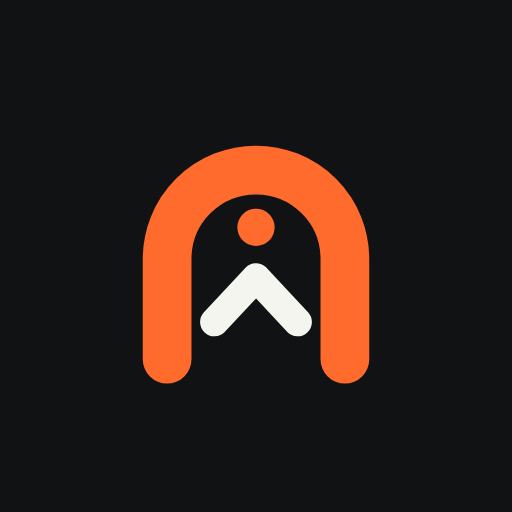
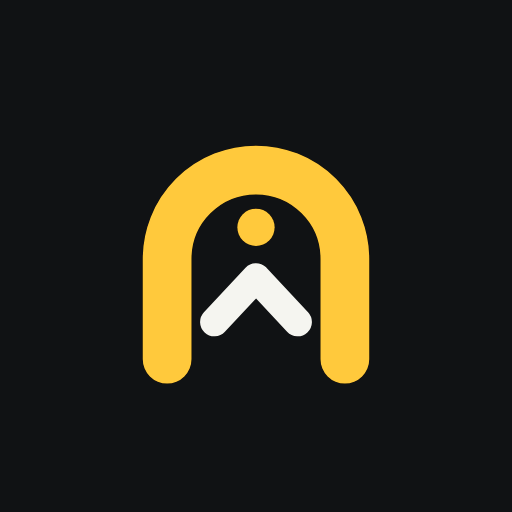
web: طلباتي السابقة بطاقات واضحة، أيقونات التطبيق (PNG) صفراء
Claude-Session: https://claude.ai/code/session_01CPeNF4YeC7sut9oWUzz2V4

Changed region(s): [[0.2812, 0.2812, 0.7188, 0.75]]

diff --git a/profile.js b/profile.js
@@ -63,9 +63,21 @@
     F.$('#p-delete', el).onclick = deleteMine;
     const ST = { open: 'قيد البحث', accepted: 'مؤكد', completed: 'مكتمل', cancelled: 'ملغي', expired: 'منتهي' };
     const ISS = { tow: 'سحب', battery: 'بطارية', tire: 'إطار', fuel: 'وقود', locked: 'مفاتيح مقفلة', accident: 'حادث', other: 'أخرى' };
-    F.sb.q('requests', 'select=number,issue,status,created_at&order=created_at.desc&limit=10').then((rows) => {
+    const ICO = { tow: '🚚', battery: '🔋', tire: '🛞', fuel: '⛽', locked: '🔑', accident: '⚠', other: '❓' };
+    const COL = { open: '#5AA9FF', accepted: '#FFC93C', completed: '#10B981', cancelled: '#8C949B', expired: '#8C949B' };
+    const MON = ['كانون الثاني', 'شباط', 'آذار', 'نيسان', 'أيار', 'حزيران', 'تموز', 'آب', 'أيلول', 'تشرين الأول', 'تشرين الثاني', 'كانون الأول'];
+    const when = (iso) => { const d = new Date(iso), h = d.getHours(); return d.getDate() + ' ' + MON[d.getMonth()] + ' · ' + ((h % 12) || 12) + ':' + String(d.getMinutes()).padStart(2, '0') + (h >= 12 ? ' م' : ' ص'); };
+    F.sb.q('requests', 'select=number,issue,status,created_at,destination,cranes(name)&order=created_at.desc&limit=15').then((rows) => {
       const box = F.$('#p-reqs', el); if (!box) return;
-      box.innerHTML = rows.length ? '<ul class="list">' + rows.map((x) => '<li><span><b>#' + (x.number || '') + '</b> ' + (ISS[x.issue] || '') + '</span><span class="muted small">' + (ST[x.status] || x.status) + ' · ' + F.ago(Date.parse(x.created_at)) + '</span></li>').join('') + '</ul>' : 'ما عندك طلبات بعد.';
+      box.innerHTML = rows.length ? rows.map((x) => {
+        const c = COL[x.status] || '#8C949B';
+        return '<div class="req-card"><div class="req-top"><span class="req-ico" style="background:' + c + '22">' + (ICO[x.issue] || '❓') + '</span>' +
+          '<div class="req-main"><b>' + (ISS[x.issue] || 'طلب مساعدة') + '</b><div class="muted small">' + when(x.created_at) + '</div></div>' +
+          '<span class="req-st" style="color:' + c + ';background:' + c + '22">' + (ST[x.status] || x.status) + '</span></div>' +
+          (x.cranes && x.cranes.name ? '<div class="muted small req-line">👤 السائق: ' + F.esc(x.cranes.name) + '</div>' : '') +
+          (x.destination ? '<div class="muted small req-line">📍 الوجهة: ' + F.esc(x.destination) + '</div>' : '') +
+          (x.number ? '<div class="muted req-no">رقم الطلب ' + x.number + '</div>' : '') + '</div>';
+      }).join('') : 'ما عندك طلبات بعد.';
     }).catch(() => { const b = F.$('#p-reqs', el); if (b) b.textContent = 'تعذّر التحميل.'; });
     const drawBlk = () => {
       const l = F.blocks ? F.blocks.list() : [], card = F.$('#p-blocked', el); if (!card) return;

diff --git a/style.css b/style.css
@@ -1016,3 +1016,14 @@ html.is-en .gd-steps li { padding: 11px 0 11px 44px; }
 .cp-id .k { color: var(--muted); font-size: 12px; }
 .cp-id .nm b { color: var(--text); }
 .cp-id .pl b { color: var(--accent); letter-spacing: .5px; }
+
+/* طلباتي السابقة */
+.req-card { padding: 12px 14px; border-radius: 22px; background: var(--surface2, #252A2F); border: 1px solid var(--line); margin-top: 10px; }
+.req-top { display: flex; align-items: center; gap: 12px; }
+.req-ico { width: 44px; height: 44px; border-radius: 50%; display: flex; align-items: center; justify-content: center; font-size: 21px; flex: none; }
+.req-main { flex: 1; min-width: 0; }
+.req-main b { font-size: calc(16px * var(--fs, 1)); }
+.req-st { padding: 4px 12px; border-radius: 99px; font-size: calc(12px * var(--fs, 1)); font-weight: 700; flex: none; }
+.req-line { margin-top: 8px; padding-top: 8px; border-top: 1px solid var(--line); }
+.req-line + .req-line { margin-top: 4px; padding-top: 0; border-top: 0; }
+.req-no { font-size: calc(11px * var(--fs, 1)); margin-top: 6px; }
